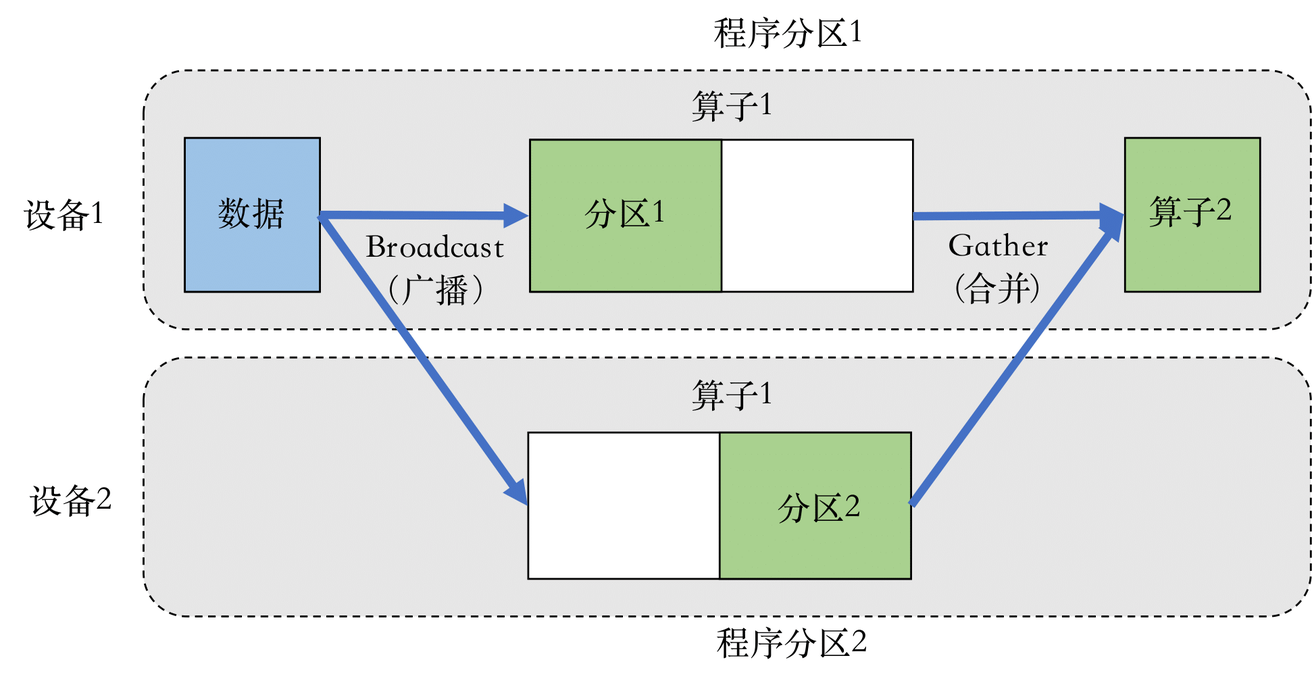
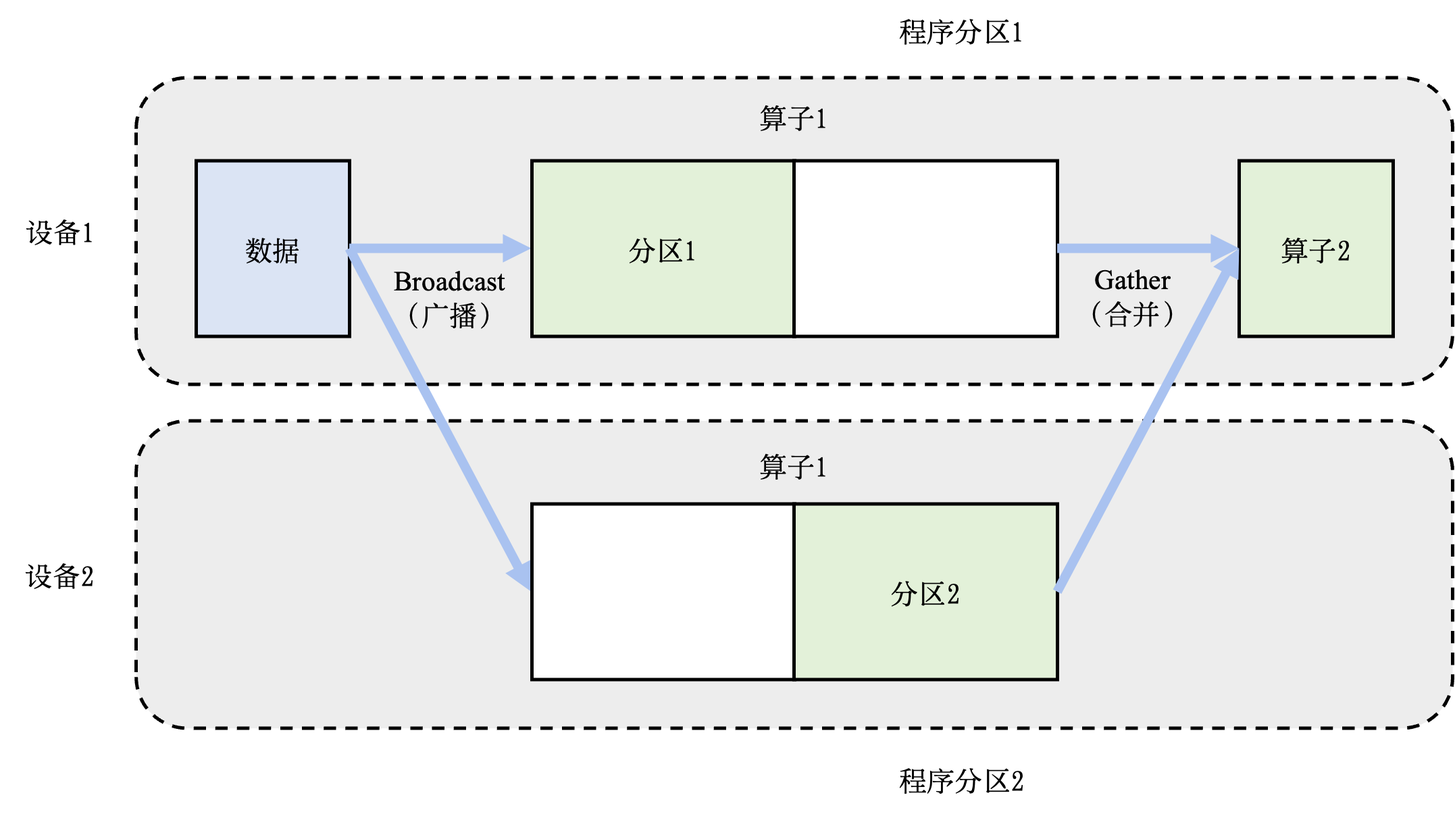
Fix chapter_distributed_training figures (#321)
* fix #264

* Fix figures

* Add extended readings (fix #282)

* Remove extra spaces

* Fix typo

* fix #183

* update fonts in figures

* fix #184 #263

* fix #184 #263

* fix a bug

* fix a bug

* fix 183

* fix a bug

* fix a text

* Merge

* add overview figure fix #263

* fix #263

diff --git a/chapter_distributed_training/parameter_servers.md b/chapter_distributed_training/parameter_servers.md
@@ -4,51 +4,32 @@
 
 ### 计算和存储分离
 
-利用参数服务器的其中一个核心需求是实现：计算和存储的分离。在训练模型中，计算可以被理解为计算更新模型参数所需要的计算（例如说，计算本地梯度和计算平均梯度），而存储可以被理解为将模型参数存储在内存设备中（例如说，主机内存，加速卡内存和SSD设备）。传统的神经网络训练中，计算往往是核心瓶颈，因此我们只需要配置有合适数量的带有加速卡的服务器，常被称为训练服务器（Training
-servers）。
+利用参数服务器的其中一个核心需求是实现：计算和存储的分离。在训练模型中，计算可以被理解为计算更新模型参数所需要的计算（例如说，计算本地梯度和计算平均梯度），而存储可以被理解为将模型参数存储在内存设备中（例如说，主机内存，加速卡内存和SSD设备）。传统的神经网络训练中，计算往往是核心瓶颈，因此我们只需要配置有合适数量的带有加速卡的服务器，常被称为训练服务器（Training servers）。
 
-随着机器学习的发展，新型的稀疏模型被开发出来。相比于传统的神经网络训练，稀疏模型的训练往往不需要大量昂贵的计算加速卡（GPU），而需要海量的内存来存储嵌入表（Embedding
-table）。例如说，一个大型深度学习推荐系统中，它们往往使用小型的深度神经网络（如Multi-layer
-Perception），训练这种神经网络只需要几个GPU即可。而另一方面，推荐系统中往往需要存储PB级别的嵌入表。嵌入表往往由推荐系统的用户特征（User
-feature）和产品特征（Item
-feature）构成。这些特征往往是大型向量（Vector）。现代推荐系统需要服务数亿的用户，推荐数以千万的商品。假设用户的特征是1MB，而系统需要服务10亿的用户，那么用户的嵌入表就会有1PB的大小。而这个大小远远超过了一个深度学习服务器所具有的内存。假如我们部署大量的昂贵的深度学习服务器来存储海量嵌入表，那么这些服务器上的加速卡的使用率将会极低，无法实现对于硬件的高效利用。
+随着机器学习的发展，新型的稀疏模型被开发出来。相比于传统的神经网络训练，稀疏模型的训练往往不需要大量昂贵的计算加速卡（GPU），而需要海量的内存来存储嵌入表（Embedding table）。例如说，一个大型深度学习推荐系统中，它们往往使用小型的深度神经网络（如Multi-layer Perception），训练这种神经网络只需要几个GPU即可。而另一方面，推荐系统中往往需要存储PB级别的嵌入表。嵌入表往往由推荐系统的用户特征（User feature）和产品特征（Item feature）构成。这些特征往往是大型向量（Vector）。现代推荐系统需要服务数亿的用户，推荐数以千万的商品。假设用户的特征是1MB，而系统需要服务10亿的用户，那么用户的嵌入表就会有1PB的大小。而这个大小远远超过了一个深度学习服务器所具有的内存。假如我们部署大量的昂贵的深度学习服务器来存储海量嵌入表，那么这些服务器上的加速卡的使用率将会极低，无法实现对于硬件的高效利用。
 
-![参数服务器](../img/ch09/ch10-parameter-servers.svg)
+![参数服务器](../img/ch09/ch10-parameter-servers.png)
 :width:`800px`
 :label:`ch10-parameter-servers`
 
-为了解决上述问题，人们往往会在稀疏模型集群中混合部署：训练服务器和参数服务器，从而实现对于计算需求和内存需求分别满足。 :numref:`ch10-parameter-servers` 描述了带有参数服务器的机器学习集群。这个集群中含有2个训练服务器和2个参数服务器，训练服务器一般是拥有加速卡的计算优化服务器（Compute-optimised
-server）。而参数服务器一般是内存优化服务器（Memory-optimised
-server），其的内存大小一般远远大于计算优化服务器。在一个稀疏模型中往往拥有神经网络参数和嵌入表参数。神经网络较小，其可以存储在训练服务器内存中。而嵌入表很大，因此需要存储在额外的参数服务器中。参数服务器一般会按照键-值对（Key-value
-pairs）的方式来存储参数。常用的键包括用户名（User ID），产品名（Item
-ID）或者是参数名（Parameter
-Key）。常用的值是以多维度向量（Multi-dimensional
-tensors）表达的模型参数。假如存在多个参数服务器，参数服务器会用数据分区函数（例如，哈希函数和区域划分）将健-值映射到不同参数服务器上。
+为了解决上述问题，人们往往会在稀疏模型集群中混合部署：训练服务器和参数服务器，从而实现对于计算需求和内存需求分别满足。 :numref:`ch10-parameter-servers` 描述了带有参数服务器的机器学习集群。这个集群中含有2个训练服务器和2个参数服务器，训练服务器一般是拥有加速卡的计算优化服务器（Compute-optimised server）。而参数服务器一般是内存优化服务器（Memory-optimised server），其的内存大小一般远远大于计算优化服务器。在一个稀疏模型中往往拥有神经网络参数和嵌入表参数。神经网络较小，其可以存储在训练服务器内存中。而嵌入表很大，因此需要存储在额外的参数服务器中。参数服务器一般会按照键-值对（Key-value pairs）的方式来存储参数。常用的键包括用户名（User ID），产品名（Item ID）或者是参数名（Parameter Key）。常用的值是以多维度向量（Multi-dimensional tensors）表达的模型参数。假如存在多个参数服务器，参数服务器会用数据分区函数（例如，哈希函数和区域划分）将健-值映射到不同参数服务器上。
 
-为了完成对于模型的训练，在每一步训练中，训练服务器会根据当前的小批量训练数据，找到本批量中需要用到的参数。例如说，本小批量数据只会训练部分用户的特征，那么这些用户的特征才会需要。根据参数服务器的数据分区函数，训练服务器可以知道参数当前在哪个参数服务器上，它们因此会用参数的键（Key）向对应的参数服务器发起拉取请求（Pull
-request）。参数服务器响应，并返回对应的值（Value）。训练服务器将拉取的参数（往往是嵌入表）和本地内存中的模型参数（往往是神经网络）进行合并，从而对合并的模型进行训练，计算梯度。假如训练服务器实现了数据并行，那么训练服务器计算出的本地梯度需要利用Allreduce计算出平均梯度。对于训练服务器本地内存中的参数，训练服务器可以马上利用平均梯度进行修改。对于在参数服务器中存储的参数，训练服务器发起推送请求（Push
-request）将平均梯度发送到参数服务器，参数服务器更新本地存储的参数。
+为了完成对于模型的训练，在每一步训练中，训练服务器会根据当前的小批量训练数据，找到本批量中需要用到的参数。例如说，本小批量数据只会训练部分用户的特征，那么这些用户的特征才会需要。根据参数服务器的数据分区函数，训练服务器可以知道参数当前在哪个参数服务器上，它们因此会用参数的键（Key）向对应的参数服务器发起拉取请求（Pull request）。参数服务器响应，并返回对应的值（Value）。训练服务器将拉取的参数（往往是嵌入表）和本地内存中的模型参数（往往是神经网络）进行合并，从而对合并的模型进行训练，计算梯度。假如训练服务器实现了数据并行，那么训练服务器计算出的本地梯度需要利用Allreduce计算出平均梯度。对于训练服务器本地内存中的参数，训练服务器可以马上利用平均梯度进行修改。对于在参数服务器中存储的参数，训练服务器发起推送请求（Push request）将平均梯度发送到参数服务器，参数服务器更新本地存储的参数。
 
-在以上的参数服务器架构中，机器学习集群拥有者可以灵活的根据梯度计算所需要算力配置合理数量的训练服务器。他们也可以根据参数的数量配置大部分的稀疏参数（Sparse
-parameters）在参数服务器中，仅留下小部分的密集参数（Dense
-parameters）在训练服务器中。密集参数和稀疏参数的核心区别是：稀疏参数在每一步训练不一定都会被用到，他们需要根据当前训练小批量来决定。而密集参数每一步训练都需要用到。因此为了避免频繁从参数服务器中拉取，密集参数往往会存储在训练服务器中。
+在以上的参数服务器架构中，机器学习集群拥有者可以灵活的根据梯度计算所需要算力配置合理数量的训练服务器。他们也可以根据参数的数量配置大部分的稀疏参数（Sparse parameters）在参数服务器中，仅留下小部分的密集参数（Dense parameters）在训练服务器中。密集参数和稀疏参数的核心区别是：稀疏参数在每一步训练不一定都会被用到，他们需要根据当前训练小批量来决定。而密集参数每一步训练都需要用到。因此为了避免频繁从参数服务器中拉取，密集参数往往会存储在训练服务器中。
 
 ### 数据副本
 
-在参数服务器的实际部署中，人们往往需要解决数据热点问题。互联网数据往往符合幂律概率（Power-law
-distribution），这会导致部分稀疏参数在训练过程中被访问的次数会显著高于其他参数。例如说，热门商品的特征向量被训练服务器拉取的次数就会远远高于非热门商品。因此，存储了热门数据的参数服务器所承受的数据拉取和推送请求会远远高于其他参数服务器，因此形成数据热点，伤害了系统的可扩展性。
+在参数服务器的实际部署中，人们往往需要解决数据热点问题。互联网数据往往符合幂律概率（Power-law distribution），这会导致部分稀疏参数在训练过程中被访问的次数会显著高于其他参数。例如说，热门商品的特征向量被训练服务器拉取的次数就会远远高于非热门商品。因此，存储了热门数据的参数服务器所承受的数据拉取和推送请求会远远高于其他参数服务器，因此形成数据热点，伤害了系统的可扩展性。
 
 解决数据热点问题的关键是利用在没有副本的情况下，通用的做法是每隔一段时间将所有参数在外存中保存一份检查点（checkpoint）。当出现机器故障时，首先所有的训练必须停止，等待故障的机器恢复上线，然后从外存中重新加载检查点。这就会导致从上一次保存检查点到故障发生时的数据全部丢失。保存一次检查点的开销随模型大小而增加，训练大模型时通常每隔1-2小时保存一次。因此无副本的参数服务器如果发生故障，会丢失最多1-2小时的数据。
 
-解决参数服务器故障和数据热点问题的常用技术是构建模型主从副本（Master-slave
-replication）。一份参数在多个机器上拥有副本，并指定其中一个副本作为主副本。训练服务器的所有更新操作都向主副本写入并同步至从副本上。如何取得共识确定哪一个副本是主副本是分布式系统领域一个经典问题，已经有了相当多的成熟的算法，例如Paxos和Raft。此外，主副本上的更新如何复制到从副本上也同样是分布式系统领域的经典共识问题。通常系统设计者需要在可用性（Availability）和一致性（Consistency）之间做出取舍。如果参数服务器副本间采用强一致性的复制协议（例如，链式副本(Chain replication)）则可能导致训练服务器的推送请求失败，即参数服务器不可用。反之，如果参数服务器采用弱一致性的复制协议，则可能导致副本间存储的参数不一致。
+解决参数服务器故障和数据热点问题的常用技术是构建模型主从副本（Master-slave replication）。一份参数在多个机器上拥有副本，并指定其中一个副本作为主副本。训练服务器的所有更新操作都向主副本写入并同步至从副本上。如何取得共识确定哪一个副本是主副本是分布式系统领域一个经典问题，已经有了相当多的成熟的算法，例如Paxos和Raft。此外，主副本上的更新如何复制到从副本上也同样是分布式系统领域的经典共识问题。通常系统设计者需要在可用性（Availability）和一致性（Consistency）之间做出取舍。如果参数服务器副本间采用强一致性的复制协议（例如，链式副本(Chain replication)）则可能导致训练服务器的推送请求失败，即参数服务器不可用。反之，如果参数服务器采用弱一致性的复制协议，则可能导致副本间存储的参数不一致。
 
 ### 掉队者问题
 
-参数服务器的另一大核心作用是可以让用户方便解决掉队者问题。在之前的讨论中，在每一步训练结束后，训练服务器都需要计算平均梯度来对每一个模型副本进行更新，从而保证下一步训练开始前，全部模型副本的参数的一致性，这种对于参数一致性的确保一般被称为同步训练（Synchronous
-training）。同步训练一般会有助于训练系统达到更好的模型精度，但是当系统规模变大，我们往往会在系统中引入掉队者（Straggler）。掉队者出现的原因很多。常见的原因包括：掉队者设备可能和其他设备不在同一个机柜中，因此掉队者的通讯带宽显著小于其他设备。另外，掉队者设备也可能和其他进程共享本地的服务器计算和通讯资源，形成资源竞争，从而降低了性能。
+参数服务器的另一大核心作用是可以让用户方便解决掉队者问题。在之前的讨论中，在每一步训练结束后，训练服务器都需要计算平均梯度来对每一个模型副本进行更新，从而保证下一步训练开始前，全部模型副本的参数的一致性，这种对于参数一致性的确保一般被称为同步训练（Synchronous training）。同步训练一般会有助于训练系统达到更好的模型精度，但是当系统规模变大，我们往往会在系统中引入掉队者（Straggler）。掉队者出现的原因很多。常见的原因包括：掉队者设备可能和其他设备不在同一个机柜中，因此掉队者的通讯带宽显著小于其他设备。另外，掉队者设备也可能和其他进程共享本地的服务器计算和通讯资源，形成资源竞争，从而降低了性能。
 
 掉队者对于基于Allreduce的同步训练系统的性能有显著影响，这是因为Allreduce让全部节点参与到平均梯度的计算和通讯中，而每个节点负责等量的数据。因此任何一个掉队者的出现，都会让整个Allreduce操作延迟完成。为了解决这个问题，人们也会使用参数服务器来计算平均梯度。一种常见的设计是：训练服务器训练出本地梯度后，会把本地梯度全部推送到参数服务器。参数服务器在等到一定数据训练服务器（例如说90%的训练服务器）的本地梯度后，就开始计算平均梯度。这样可以确保平均梯度的计算不会被落后者的出现延误。计算好的平均梯度马上推送给全部训练服务器，开始下一轮训练。
 
-解决掉队者的另外一种常见做法是利用参数服务器实现**异步训练**(Asynchronous
-training)。在一个异步训练系统中，每个训练服务器在训练开始时，有相同的模型参数副本。在训练中，他们计算出本地梯度后会马上将本地梯度推送到参数服务器，参数服务器将推送的梯度立刻用于更新参数，并把更新好的参数马上推送回对应的训练服务器。在这个过程中，不同的训练服务器很可能会使用不同版本的模型参数进行本地梯度的计算，这种做法有可能会伤害模型的精度，但它同时让不同训练服务器可以按照各自的运算速度来推送和拉取参数，而无需等待同伴，因此避免了掉队者对于整个集群性能的影响。
+解决掉队者的另外一种常见做法是利用参数服务器实现**异步训练**(Asynchronous training)。在一个异步训练系统中，每个训练服务器在训练开始时，有相同的模型参数副本。在训练中，他们计算出本地梯度后会马上将本地梯度推送到参数服务器，参数服务器将推送的梯度立刻用于更新参数，并把更新好的参数马上推送回对应的训练服务器。在这个过程中，不同的训练服务器很可能会使用不同版本的模型参数进行本地梯度的计算，这种做法有可能会伤害模型的精度，但它同时让不同训练服务器可以按照各自的运算速度来推送和拉取参数，而无需等待同伴，因此避免了掉队者对于整个集群性能的影响。

diff --git a/chapter_distributed_training/overview.md b/chapter_distributed_training/overview.md
@@ -2,49 +2,36 @@
 
 ### 设计动机
 
-接下来，我们详细讨论分布式训练系统的设计动机
+接下来，我们详细讨论分布式训练系统的设计动机。
 
-![对比机器学习模型参数量增长和计算硬件的算力增长](../img/ch09/ch10-computation-increase.svg)
+![对比机器学习模型参数量增长和计算硬件的算力增长](../img/ch09/ch10-computation-increase.png)
 :width:`800px`
 :label:`ch10-computation-increase`
 
 ##### 算力不足
 
-单处理器的算力不足是促使人们设计分布式训练系统的一个主要原因。一个处理器的算力可以用**每秒钟浮点数操作**（Floating
-Point Operations Per Second，FLOPS）来衡量。
-如 :numref:`ch10-computation-increase`所示，根据摩尔定律（Moore's
-Law），中央处理器的算力每18个月增长2倍。虽然计算加速卡，如GPU和Tensor
-Processing
-Unit（TPU），针对机器学习计算（如矩阵相乘）提供了大量的算力。这些加速卡的发展最终也受限于摩尔定律，增长速度也停留在每18个月2倍。而与此同时，机器学习模型正在快速发展。短短数年，我们从仅能识别有限物体的AlexNet模型，一路发展到在复杂任务中打败人类的AlphaStar。这期间，模型对于算力需求每18个月增长了35倍。解决处理器性能和算力需求之间的鸿沟
-的关键就在于利用分布式计算。通过大型数据中心和云计算设施，我们可以快速获取大量的处理器。通过分布式训练系统有效管理这些处理器，我们可以实现算力的快速增长，从而持续满足模型的需求。
+单处理器的算力不足是促使人们设计分布式训练系统的一个主要原因。一个处理器的算力可以用**每秒钟浮点数操作**（Floating Point Operations Per Second，FLOPS）来衡量。如 :numref:`ch10-computation-increase`所示，根据摩尔定律（Moore's Law），中央处理器的算力每18个月增长2倍。虽然计算加速卡，如GPU和Tensor Processing Unit（TPU），针对机器学习计算（如矩阵相乘）提供了大量的算力。这些加速卡的发展最终也受限于摩尔定律，增长速度也停留在每18个月2倍。而与此同时，机器学习模型正在快速发展。短短数年，我们从仅能识别有限物体的AlexNet模型，一路发展到在复杂任务中打败人类的AlphaStar。这期间，模型对于算力需求每18个月增长了35倍。解决处理器性能和算力需求之间的鸿沟的关键就在于利用分布式计算。通过大型数据中心和云计算设施，我们可以快速获取大量的处理器。通过分布式训练系统有效管理这些处理器，我们可以实现算力的快速增长，从而持续满足模型的需求。
 
 ##### 内存不足
 
-在训练机器学习模型的过程中，训练系统需要在内存中存储大量数据。这些数据包括：模型参数（Parameters）以及训练和更新这些参数所产生的中间数据，如特征图（Feature
-Map）和梯度（Gradients）。假设一个深度神经网络模型具有10亿的参数，所有特征图共有20亿参数，每个参数都由一个32位浮点数表达，而更新这些参数至少还需要产生与特征图和参数等量的梯度。由于一个32位浮点数需要4个字节（Byte）的内存来存储，那么训练这个10亿规模的模型就需要至少24GB（$24 \times 10^9$
-Byte）的内存。现在，随着大型预训练模型的崛起，一个深度神经网络（如GPT-3）会拥有超过千亿的参数。假设我们依然使用32位浮点数来存储参数，激活值和梯度，那么训练这个模型就至少需要1.2TB的内存。而如今的训练加速卡（如NVIDIA
-A100）仅能提供最高80GB的内存。单卡内存空间的增长受到硬件规格，散热和成本等诸多因素，难以进一步快速增长。因此，我们需要分布式训练系统来同时使用数百个训练加速卡，从而为千亿级别的模型提供所需的TB级别的内存。
+在训练机器学习模型的过程中，训练系统需要在内存中存储大量数据。这些数据包括：模型参数（Parameters）以及训练和更新这些参数所产生的中间数据，如特征图（Feature Map）和梯度（Gradients）。假设一个深度神经网络模型具有10亿的参数，所有特征图共有20亿参数，每个参数都由一个32位浮点数表达，而更新这些参数至少还需要产生与特征图和参数等量的梯度。由于一个32位浮点数需要4个字节（Byte）的内存来存储，那么训练这个10亿规模的模型就需要至少24GB（$24 \times 10^9$ Byte）的内存。现在，随着大型预训练模型的崛起，一个深度神经网络（如GPT-3）会拥有超过千亿的参数。假设我们依然使用32位浮点数来存储参数，激活值和梯度，那么训练这个模型就至少需要1.2TB的内存。而如今的训练加速卡（如NVIDIA A100）仅能提供最高80GB的内存。单卡内存空间的增长受到硬件规格，散热和成本等诸多因素，难以进一步快速增长。因此，我们需要分布式训练系统来同时使用数百个训练加速卡，从而为千亿级别的模型提供所需的TB级别的内存。
 
 ### 分布式训练架构
 
 受限于单节点的有限算力，内存和存储资源，人们把关注投向了日益成熟的云计算数据中心。一个数据中心管理着数十万个计算服务器。随着数据中心的全球部署，人们可以很方便地获得数百个服务器。这些服务器可以通过分布式训练系统来协调和管理，解决训练大型机器学习模型过程遇到的算力，内存和存储不足，从而完成训练过程的加速。
 
-![单节点计算和多节点分布式计算](../img/ch09/ch10-single-vs-multi.svg)
+![单节点计算和多节点分布式计算](../img/ch09/ch10-single-vs-multi.png)
 :width:`800px`
 :label:`ch10-single-vs-multi`
 
-在设计分布式训练系统的过程中，我们需要找出有资源瓶颈的计算任务，根据计算任务的特点，将其拆分成多个子任务，然后将子任务分发给多个节点（可以是服务器，机器，或者是加速卡）并行完成。
- :numref:`ch10-single-vs-multi`描述了如何将单节点执行转换为分布式执行的一般过程。在机器学习系统中，一个计算任务往往会有一组数据（例如训练样本）或者任务（例如算子）作为输入，利用一个计算节点（例如GPU）生成一组输出（例如梯度）。假如单节点成为瓶颈，我们可以利用分布式计算进行加速。分布式执行一般具有三个步骤：第一步，我们需要将输入进行**切分**。第二步，每个输入部分会分发给不同的计算节点，实现**并行**计算。第三步，每个计算节点的输出，进一步**合并**，最终得到和单节点等价的计算结果。这种切分-并行-合并的模式，本质上实现了分而治之算法（Divide-and-Conquer
-Algorithm）的设计思想：由于每个计算节点只需要负责更小的子任务，因此其可以更快速的完成计算，最终形成对整个计算过程的加速。
+在设计分布式训练系统的过程中，我们需要找出有资源瓶颈的计算任务，根据计算任务的特点，将其拆分成多个子任务，然后将子任务分发给多个节点（可以是服务器，机器，或者是加速卡）并行完成。 :numref:`ch10-single-vs-multi`描述了如何将单节点执行转换为分布式执行的一般过程。在机器学习系统中，一个计算任务往往会有一组数据（例如训练样本）或者任务（例如算子）作为输入，利用一个计算节点（例如GPU）生成一组输出（例如梯度）。假如单节点成为瓶颈，我们可以利用分布式计算进行加速。分布式执行一般具有三个步骤：第一步，我们需要将输入进行**切分**。第二步，每个输入部分会分发给不同的计算节点，实现**并行**计算。第三步，每个计算节点的输出，进一步**合并**，最终得到和单节点等价的计算结果。这种切分-并行-合并的模式，本质上实现了分而治之算法（Divide-and-Conquer Algorithm）的设计思想：由于每个计算节点只需要负责更小的子任务，因此其可以更快速的完成计算，最终形成对整个计算过程的加速。
 
 ### 用户益处
 
 通过使用分布式训练系统，我们往往可以获得以下几个关键好处：
 
--   **提升系统性能**：使用分布式训练，往往可以带来训练性能的巨大提升。一个分布式训练系统往往用以下这个指标来衡量性能：到达目标精度所需的时间（time-to-accuracy）。这个指标由两个参数决定:
-    一个数据周期所需的完成时间，以及一个数据周期模型所提升的精度。通过持续增加并行处理节点，我们可以将数据周期的完成时间不断变短，最终显著减少到达目标精度所需的时间。
+-   **提升系统性能**：使用分布式训练，往往可以带来训练性能的巨大提升。一个分布式训练系统往往用以下这个指标来衡量性能：到达目标精度所需的时间（time-to-accuracy）。这个指标由两个参数决定:一个数据周期所需的完成时间，以及一个数据周期模型所提升的精度。通过持续增加并行处理节点，我们可以将数据周期的完成时间不断变短，最终显著减少到达目标精度所需的时间。
 
 -   **经济性（Economy）**：使用分布式训练，我们也可以进一步减少训练及其模型所需的成本。受限于单节点散热的上限，单节点的算力越高，其所需的散热硬件成本也更高。因此，在提供同等的算力的条件下，组合多个计算节点是一个更加经济高效的方式。这促使云服务商（如亚马逊和微软等）需要更加注重给用户提供成本高效的分布式机器学习系统。
 
--   **抵御硬件故障**：分布式训练系统同时能有效提升抵御硬件故障的能力。机器学习训练集群往往由商用硬件（Commodity
-    Hardware）组成，这类硬件（例如说，磁盘和网卡）运行一定周期就会产生故障。而仅使用单个硬件进行训练的话，那么一个硬件的故障就会造成整个训练的任务的失败。通过将这个训练任务由多个硬件共同完成，即使一个硬件故障了，我们也可以通过将这个硬件上相应的计算子任务转移给其余硬件，继续完成训练，从而避免训练任务的失败。
+-   **抵御硬件故障**：分布式训练系统同时能有效提升抵御硬件故障的能力。机器学习训练集群往往由商用硬件（Commodity Hardware）组成，这类硬件（例如说，磁盘和网卡）运行一定周期就会产生故障。而仅使用单个硬件进行训练的话，那么一个硬件的故障就会造成整个训练的任务的失败。通过将这个训练任务由多个硬件共同完成，即使一个硬件故障了，我们也可以通过将这个硬件上相应的计算子任务转移给其余硬件，继续完成训练，从而避免训练任务的失败。

diff --git a/chapter_distributed_training/pipeline.md b/chapter_distributed_training/pipeline.md
@@ -1,20 +1,14 @@
 ## 流水线并行
 
-在数据并行和模型并行以外，流水线并行是另一种常用的并行加速方法。
-流水线并行往往被应用在大型模型并行系统中。这种系统通过算子内并行和算子间并行解决单设备内存不足的问题。
-然而，当这类系统的运行中，计算图中的下游设备需要长期持续处于空闲状态，等待上游设备的计算完成，才可以开始计算，这极大降低了设备的平均使用率。这种现象被称为模型并行空洞（Model
-Parallelism Bubble）。
+在数据并行和模型并行以外，流水线并行是另一种常用的并行加速方法。流水线并行往往被应用在大型模型并行系统中。这种系统通过算子内并行和算子间并行解决单设备内存不足的问题。然而，当这类系统的运行中，计算图中的下游设备需要长期持续处于空闲状态，等待上游设备的计算完成，才可以开始计算，这极大降低了设备的平均使用率。这种现象被称为模型并行空洞（Model Parallelism Bubble）。
 
-![流水线并行系统。注意！图的F和B任务的编号需要更新！](../img/ch09/ch10-pipeline-parallel.svg)
+![流水线并行系统。$F_{i,j}$表示第$j$个微批量的第$i$个前向stage，$B_{i,j}$表示第$j$个微批量的第$i$个反向stage。](../img/ch09/ch10-pipeline-parallel.png)
 :width:`800px`
 :label:`ch10-pipeline-parallel`
 
-为了减少空洞，提升设备使用率，我们可以在模型并行系统中构建流水线。这种做法的核心想法是将一个数据小批量（Data
-Mini-batch）划分为多个微批量（Micro-batch）。假设一个数据小批量有$D$个训练数据，这个小批量可以被划分为$M$个微批量，那么微批量的大小就是$D/M$。每个微批量相应进入训练系统，完成前向传播（Forwards
-propagation）和反向传播（Backwards
-propagation），计算出梯度。每个微批量对应的梯度将会缓存，等到全部微批量完成，缓存的梯度会被加和，算出平均梯度，更新模型参数。
+为了减少空洞，提升设备使用率，我们可以在模型并行系统中构建流水线。这种做法的核心想法是将一个数据小批量（Data Mini-batch）划分为多个微批量（Micro-batch）。假设一个数据小批量有$D$个训练数据，这个小批量可以被划分为$M$个微批量，那么微批量的大小就是$D/M$。每个微批量相应进入训练系统，完成前向传播（Forwards propagation）和反向传播（Backwards propagation），计算出梯度。每个微批量对应的梯度将会缓存，等到全部微批量完成，缓存的梯度会被加和，算出平均梯度，更新模型参数。
 
  :numref:`ch10-pipeline-parallel` 进一步给出了一个流水线并行的执行例子。在本例中，模型参数需要切分给4个设备存储。为了充分利用起来这4个设备，我们将小批量切分为2个微批量。当设备1完成第一个微批量的前向传播后（表示为$F_{0,0}$）后，他会将中间结果发送给设备2，触发响应的前向传播任务（表示为$F_{1,0}$）。与此同时，设备1也可以开始第二个微批量的前向传播任务（表示为$F_{0,1}$）。前向传播会在流水线的最后一个设备--设备3--完成。系统于是开始反向传播。设备4开始第1个微批量的反向传播任务（表示为$B_{3,0}$）。该任务完成后的中间结果会被发送给设备3，触发响应的反向传播任务（表示为$B_{2,0}$）。与此同时，设备4会缓存好对应第1个微批量的梯度，接下来开始第2个微批量计算（表示为$B_{3,1}$）。当设备4完成了全部的反向传播计算后，他会将本地缓存的梯度进行相加，并且除以微批量数量，计算出平均梯度，该梯度用于更新模型参数。
 
-流水线并行的关键因素是流水线泡沫（Bubble）。当设备完成前向传播后，必须等到全部反向传播开发，在此期间设备会处于空闲状态。在 :numref:`ch10-pipeline-parallel` 中，我们可以看到设备1在完成2个前向传播任务后，要等很多时间才能开始2个传向传播任务。这其中的等待时间即被称为泡沫。为了减少设备的等待时间，一种常见的做法是尽可能的增加微批量的数量，从而让反向传播尽可能早的开始。然而，使用非常小的微批量大小，可能会造成加速器无法被充分利用。因此最优的微批量大小是多种因素的折中。其中最核心的因素是流水线泡沫的大小和加速器的计算能力。
+流水线并行的关键因素是流水线泡沫（Bubble）。当设备完成前向传播后，必须等到全部反向传播开始，在此期间设备会处于空闲状态。在 :numref:`ch10-pipeline-parallel` 中，我们可以看到设备1在完成2个前向传播任务后，要等很多时间才能开始2个反向传播任务。这其中的等待时间即被称为泡沫。为了减少设备的等待时间，一种常见的做法是尽可能的增加微批量的数量，从而让反向传播尽可能早的开始。然而，使用非常小的微批量大小，可能会造成加速器无法被充分利用。因此最优的微批量大小是多种因素的折中。其中最核心的因素是流水线泡沫的大小和加速器的计算能力。
 

diff --git a/chapter_distributed_training/index.md b/chapter_distributed_training/index.md
@@ -2,9 +2,7 @@
 
 随着机器学习的进一步发展，科学家们设计出更大型，更多功能的机器学习模型（例如说，GPT-3）。这种模型含有大量参数，需要复杂的计算以及处理海量的数据。单个机器上有限的资源无法满足训练大型机器学习模型的需求。因此，我们需要设计分布式训练系统，从而将一个机器学习模型任务拆分成多个子任务，并将子任务分发给多个计算节点，解决资源瓶颈。
 
-在本章节中，我们会引入分布式机器学习系统的相关概念，设计挑战，系统实现和实例研究。我们会首先讨论分布式训练系统的定义，设计动机和好处。进一步，我们会讨论常见的分布式训练方法：数据并行，模型并行和流水线并行。在实际中，这些分布式训练方法会被参数服务器（Parameter
-Servers），或者是集合通讯库（Collective Communication
-Libraries）实现。不同的系统实现具有各自的优势和劣势。我们会用大型预训练模型和大型深度学习推荐系统作为实例来探讨不同系统实现的利与弊。
+在本章节中，我们会引入分布式机器学习系统的相关概念，设计挑战，系统实现和实例研究。我们会首先讨论分布式训练系统的定义，设计动机和好处。进一步，我们会讨论常见的分布式训练方法：数据并行，模型并行和流水线并行。在实际中，这些分布式训练方法会被参数服务器（Parameter Servers），或者是集合通讯库（Collective Communication Libraries）实现。不同的系统实现具有各自的优势和劣势。我们会用大型预训练模型和大型深度学习推荐系统作为实例来探讨不同系统实现的利与弊。
 
 本章的学习目标包括：
 

diff --git a/chapter_recommender_system/overview.md b/chapter_recommender_system/overview.md
@@ -10,7 +10,7 @@
 :label:`ch10-recommendation-models`
 
 
-推荐模型以用户和内容的交互历史、用户属性、内容属性等特征作为输入，另输入特征进行充分相互作用，再将交互结果交由稠密深度神经网络来预测用户点击候选内容的可能性。为了加深读者的对推荐模型的理解，此处我们以Wide & Deep模型 :cite:`10.1145/2988450.2988454`作为例子，深入分析推荐模型的输入特征以及输入特征之间如何交互。由于推荐模型的设计不在本章的讨论范围内，所以下面的介绍中重点介绍模型的基本结构以方便理解推荐系统的设计。对Wide & Deep模型的设计理念、数据生成、数据预处理等细节感兴趣的读者可以自行阅读论文以进一步了解。
+推荐模型以用户和内容的交互历史、用户属性、内容属性等特征作为输入，令输入特征进行充分相互作用，再将交互结果交由稠密深度神经网络来预测用户点击候选内容的可能性。为了加深读者的对推荐模型的理解，此处我们以Wide & Deep模型 :cite:`10.1145/2988450.2988454`作为例子，深入分析推荐模型的输入特征以及输入特征之间如何交互。由于推荐模型的设计不在本章的讨论范围内，所以下面的介绍中重点介绍模型的基本结构以方便理解推荐系统的设计。对Wide & Deep模型的设计理念、数据生成、数据预处理等细节感兴趣的读者可以自行阅读论文以进一步了解。
 
 
 Wide & Deep模型是一个设计简洁然而性能优异的模型，由谷歌（Google）在开发并应用于谷歌应用商店中，该模型在谷歌的实际生产环境中可以大幅提升应用的下载率。

diff --git a/chapter_distributed_training/summary.md b/chapter_distributed_training/summary.md
@@ -16,8 +16,7 @@
 
 -   为了提供海量的带宽，机器学习集群拥有异构的网络：以太网，机内网络（NVLink）和InfiniBand。
 
--   为了解决单节点瓶颈，我们可以使用
-    Allreduce来分摊梯度聚合过程中的计算和通讯开销。
+-   为了解决单节点瓶颈，我们可以使用Allreduce来分摊梯度聚合过程中的计算和通讯开销。
 
 -   参数服务器可以帮助机器学习集群实现计算-存储的分离，从而更好的支持大型稀疏模型。
 
